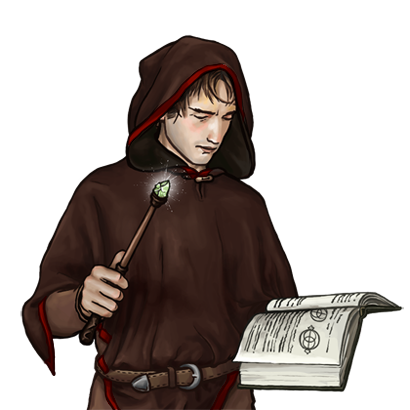
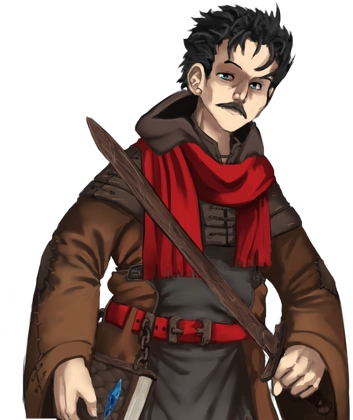
New Haralin L1 portrait by number-seventeen

diff --git a/README.md b/README.md
@@ -64,7 +64,7 @@ Peaceful life of the Green Isle's inhabitants turned into a nightmare in an inst
 - 13_Southbay_Outskirts
 - 14_Caror
 ### Chapter 4: Against the World
-- 15_Necessity (TBD)
+- 15_Retone (TBD)
 - 16_Frontline | 15_Fording (TBD)
 - 16x_Asylum (TBD)
 - 17_Deceivers
